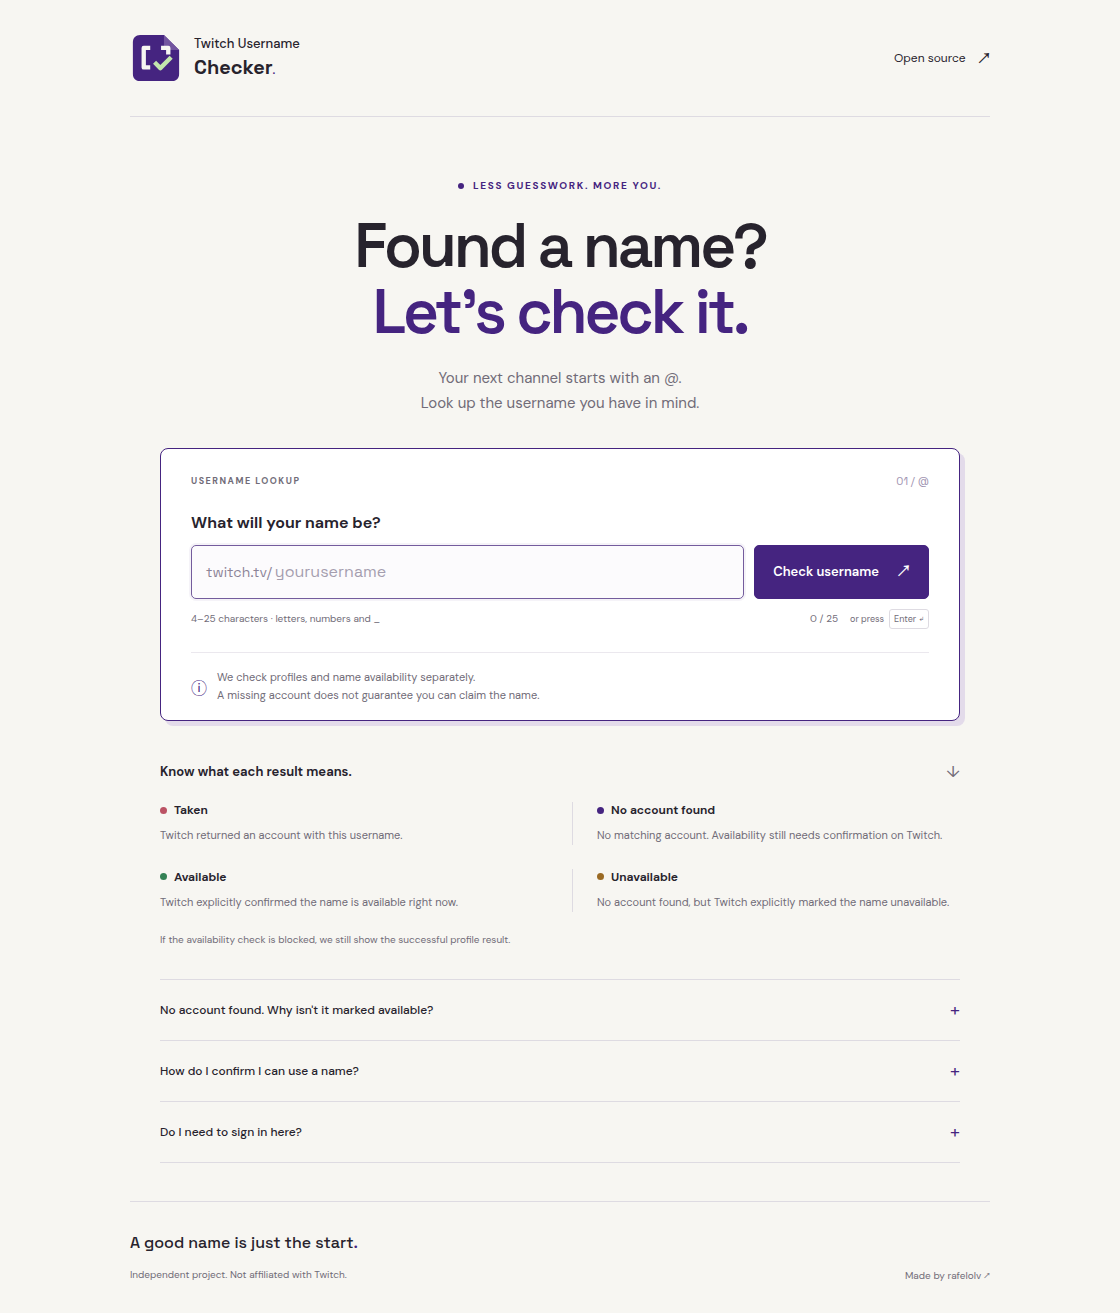
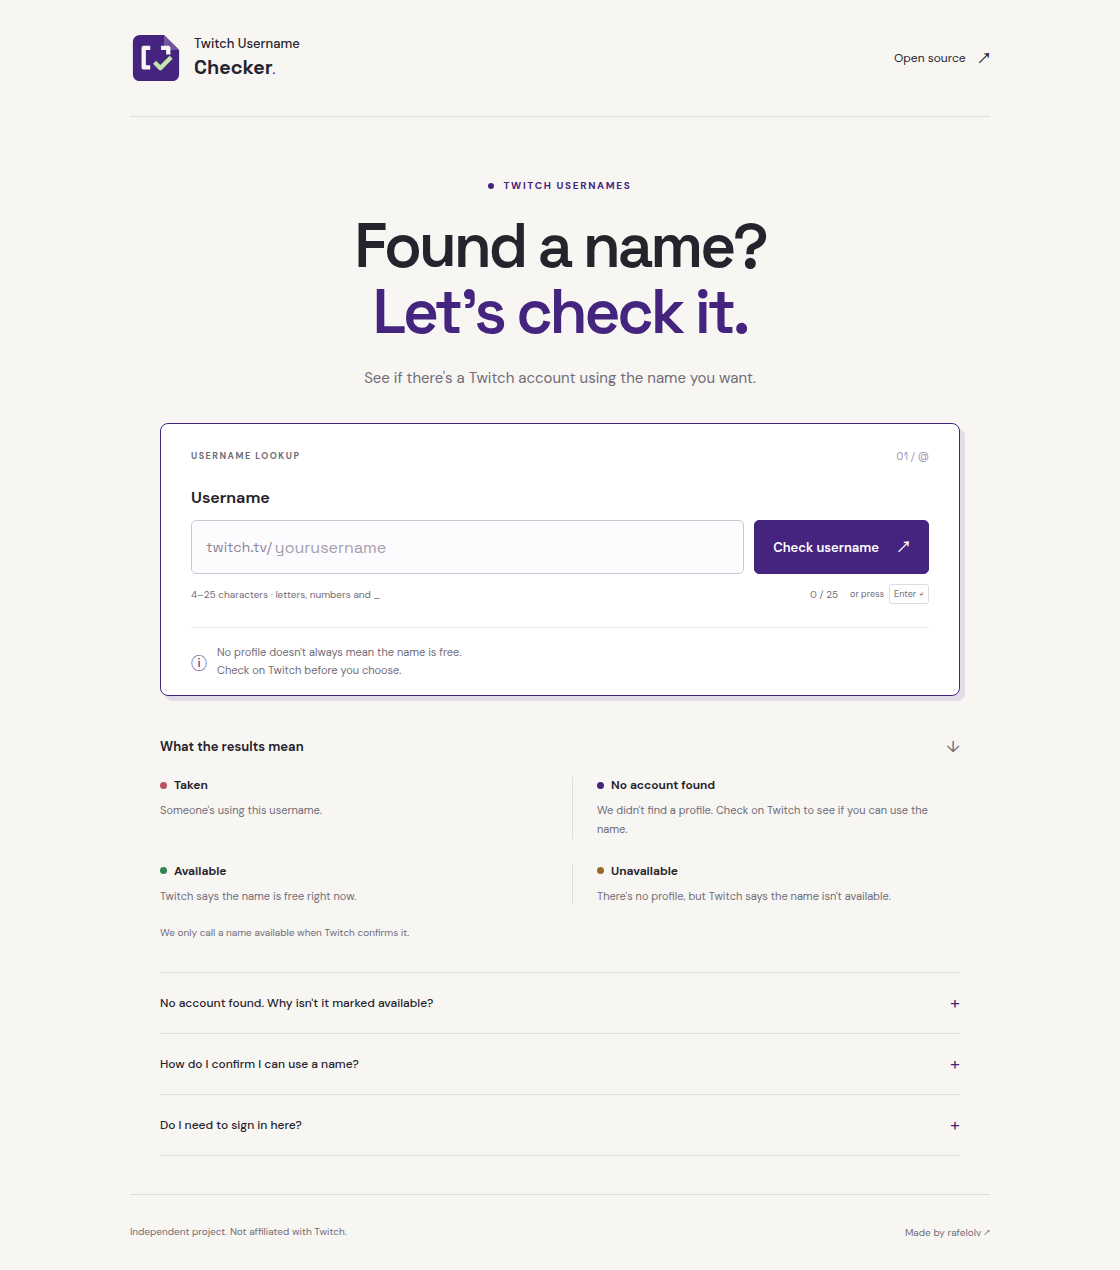
style: make English copy more natural

diff --git a/index.html b/index.html
@@ -6,7 +6,7 @@
     <meta name="theme-color" content="#452480" />
     <meta
       name="description"
-      content="Check Twitch usernames. See whether an account exists and keep profile lookup separate from name availability."
+      content="Check a Twitch username, see if an account exists, and find out what Twitch says about its availability."
     />
     <title>Twitch Username Checker — Find your next @</title>
     <link rel="icon" href="assets/logo.svg" type="image/svg+xml" />
@@ -39,11 +39,10 @@
     </header>
     <main class="wrap">
       <section class="hero" aria-labelledby="hero-title">
-        <p class="eyebrow"><span></span> LESS GUESSWORK. MORE YOU.</p>
+        <p class="eyebrow"><span></span> TWITCH USERNAMES</p>
         <h1 id="hero-title">Found a name?<br /><span>Let's check it.</span></h1>
         <p class="intro">
-          Your next channel starts with an @.<br />Look up the username you have
-          in mind.
+          See if there's a Twitch account using the name you want.
         </p>
       </section>
       <section class="checker" aria-label="Check a username">
@@ -52,7 +51,7 @@
           ><span class="card-index" aria-hidden="true">01 / @</span>
         </div>
         <form id="check-form" novalidate>
-          <label for="username">What will your name be?</label>
+          <label for="username">Username</label>
           <div class="search-row">
             <div class="input-wrap">
               <span class="input-prefix" aria-hidden="true">twitch.tv/</span
@@ -107,10 +106,10 @@
         <div class="card-note">
           <span aria-hidden="true">ⓘ</span>
           <p>
-            We check profiles and name availability separately.<br
+            No profile doesn't always mean the name is free.<br
               class="desktop-break"
             />
-            A missing account does not guarantee you can claim the name.
+            Check on Twitch before you choose.
           </p>
         </div>
       </section>
@@ -133,42 +132,38 @@
       </section>
       <section class="explainer" aria-labelledby="explainer-title">
         <div class="section-heading">
-          <h2 id="explainer-title">Know what each result means.</h2>
+          <h2 id="explainer-title">What the results mean</h2>
           <span aria-hidden="true">↓</span>
         </div>
         <div class="status-guide">
           <article>
             <span class="status-name"><i class="dot taken"></i>Taken</span>
-            <p>Twitch returned an account with this username.</p>
+            <p>Someone's using this username.</p>
           </article>
           <article>
             <span class="status-name"
               ><i class="dot unknown"></i>No account found</span
             >
             <p>
-              No matching account. Availability still needs confirmation on
-              Twitch.
+              We didn't find a profile. Check on Twitch to see if you can use
+              the name.
             </p>
           </article>
           <article>
             <span class="status-name"
               ><i class="dot available"></i>Available</span
             >
-            <p>Twitch explicitly confirmed the name is available right now.</p>
+            <p>Twitch says the name is free right now.</p>
           </article>
           <article>
             <span class="status-name"
               ><i class="dot unavailable"></i>Unavailable</span
             >
-            <p>
-              No account found, but Twitch explicitly marked the name
-              unavailable.
-            </p>
+            <p>There's no profile, but Twitch says the name isn't available.</p>
           </article>
         </div>
         <p class="unknown-note">
-          If the availability check is blocked, we still show the successful
-          profile result.
+          We only call a name available when Twitch confirms it.
         </p>
       </section>
       <section class="questions" aria-label="Frequently asked questions">
@@ -180,11 +175,9 @@
             >
           </summary>
           <p>
-            Profile lookup and name availability are separate checks. A
-            successful lookup can return no account while Twitch blocks the
-            availability check. In that case, we show “No account found” and
-            “Availability: Not verified”. Only an explicit availability response
-            lets us mark a name available.
+            A name can have no visible profile and still be unavailable. If
+            Twitch doesn't confirm whether you can use it, we'll show “No
+            account found” and leave availability as “Not verified”.
           </p>
         </details>
         <details>
@@ -192,15 +185,15 @@
             How do I confirm I can use a name?<span aria-hidden="true">+</span>
           </summary>
           <p>
-            Check it in Twitch Sign Up, or go to Settings → Profile to edit your
-            username if you already have an account. A name without a visible
-            profile may still be withheld or restricted. See
+            Try the name when signing up for Twitch, or in Settings → Profile if
+            you already have an account. Some names are held back even without a
+            visible profile. Read
             <a
               href="https://help.twitch.tv/s/article/username-rename-and-recycling-policies?language=en_US"
               target="_blank"
               rel="noopener noreferrer"
               >Twitch's username policy ↗</a
-            >. Availability can change before you claim it.
+            >. A name can be taken between checking and signing up.
           </p>
         </details>
         <details>
@@ -208,15 +201,14 @@
             Do I need to sign in here?<span aria-hidden="true">+</span>
           </summary>
           <p>
-            No. This tool does not ask for your password or account access. The
-            username is sent directly to Twitch. Recent searches stay in this
-            browser and can be cleared at any time.
+            No login or password needed. We send the username to Twitch to check
+            it. Your recent searches stay in this browser; use Clear history to
+            remove them.
           </p>
         </details>
       </section>
     </main>
     <footer class="site-footer wrap">
-      <p>A good name is just the start<span class="brand-period">.</span></p>
       <div>
         <span>Independent project. Not affiliated with Twitch.</span
         ><a

diff --git a/app.js b/app.js
@@ -12,28 +12,27 @@ const storageKey = "tuc:history:v1";
 const states = {
   available: {
     label: "Available",
-    title: "This name is available right now.",
+    title: "This name is free right now.",
     description:
-      "Twitch confirmed availability. Claim it on Twitch before someone else does; this check does not reserve it.",
+      "Try it in Twitch's sign-up form or your profile settings. This check doesn't reserve the name.",
     profile: "Not found",
     availability: "Available",
-    action: "Claim on Twitch ↗",
+    action: "Use on Twitch ↗",
     url: "https://www.twitch.tv/settings/profile",
   },
   taken: {
     label: "Taken",
-    title: "This username belongs to an account.",
-    description:
-      "Twitch returned an existing profile. Open it or try another name.",
+    title: "Someone's already using this name.",
+    description: "Take a look at the profile, or try a different username.",
     profile: "Found",
     availability: "Taken",
     action: "View Twitch profile ↗",
   },
   unavailable: {
     label: "Unavailable",
-    title: "No profile, but the name is unavailable.",
+    title: "Twitch hasn't made this name available.",
     description:
-      "Twitch explicitly marked this name as unavailable. It does not provide a reason or a release date.",
+      "We couldn't find a profile, but Twitch says you can't use this name. Twitch doesn't say why or when that might change.",
     profile: "Not found",
     availability: "Unavailable",
     action: "Check on Twitch ↗",
@@ -41,9 +40,9 @@ const states = {
   },
   unknown: {
     label: "No account found",
-    title: "Want to claim it?",
+    title: "Thinking of using it?",
     description:
-      "Check it in Twitch Sign Up or Settings → Profile. A name without a matching account can still be withheld.",
+      "Try it in Twitch's sign-up form or under Settings → Profile. Twitch hasn't confirmed whether this name is free.",
     profile: "Not found",
     availability: "Not verified",
     action: "Check availability on Twitch ↗",
@@ -51,17 +50,17 @@ const states = {
   },
   error: {
     label: "Lookup failed",
-    title: "We could not check this name.",
+    title: "Couldn't finish the check.",
     description:
-      "Twitch did not return a valid profile lookup. Check your connection and try again. No profile or availability result was confirmed.",
+      "Something went wrong while checking Twitch. Give it another try.",
     action: "Open Twitch ↗",
     url: "https://www.twitch.tv/",
   },
   "rate-limited": {
     label: "Too many requests",
-    title: "Give it a moment.",
+    title: "Try again in a bit.",
     description:
-      "Twitch is limiting requests. Wait before trying again; no result was confirmed for this lookup.",
+      "Twitch is limiting requests right now. Wait a little, then check again.",
     action: "Open Twitch ↗",
     url: "https://www.twitch.tv/",
   },
@@ -100,7 +99,7 @@ function renderHistory() {
       const li = element("li");
       const button = element("button");
       button.type = "button";
-      button.title = `${states[item.state].label} at last check. Click to check again.`;
+      button.title = `Last result: ${states[item.state].label}. Check again.`;
       button.setAttribute(
         "aria-label",
         `Check ${item.username} again. Previous result: ${states[item.state].label}`,

diff --git a/docs/VALIDATION.md b/docs/VALIDATION.md
@@ -138,3 +138,12 @@ Limitations:
 - No new live Twitch availability test was required; the integration and existing
   availability restriction are unchanged. Published release tags/assets remain
   intact; version 1.0.2 is deployed to Pages without creating a new tag.
+
+## 1.0.3 English copy edit
+
+- Replaced promotional slogans and urgency with short, conversational page,
+  help and result text. Added the tone guideline to AGENTS.md and refreshed the
+  README interface capture. Classification and request behavior are unchanged.
+- Syntax/unit checks passed. One local Chrome smoke check covered the revised
+  page, an absent-profile result, a 320px viewport and no JavaScript errors.
+- No new live Twitch or full browser matrix was run for this copy-only change.

diff --git a/AGENTS.md b/AGENTS.md
@@ -7,6 +7,8 @@ Maintained by rafelolv. Read [maintenance](docs/MAINTENANCE.md) and
   remote executable code, telemetry or application backend.
 - Use English for all project documentation, comments, user-facing text, metadata, and commit messages.
   Discuss work with the maintainer in Portuguese.
+- Write natural, friendly English. Use short, practical messages; avoid marketing
+  slogans, artificial urgency, unnecessary jargon and forced slang.
 - Maintain `main` and canonical links to `rafelolv/TwitchUsernameChecker` and its
   issues. For requested commits, use repository-local Git identity
   `Rafael <82127878+rafelolv@users.noreply.github.com>`. Preserve history and do not

diff --git a/CHANGELOG.md b/CHANGELOG.md
@@ -3,6 +3,11 @@
 Versions follow three-part semver; `package.json` is the version source.
 Entries remain Unreleased until publication is verified.
 
+## 1.0.3
+
+- Simplify page and result copy with more natural English, shorter help text and
+  no promotional slogans or urgency. Username checks and status rules are unchanged.
+
 ## 1.0.2
 
 - Replace the generic @ tile with a custom nameplate mark shared by the header,
